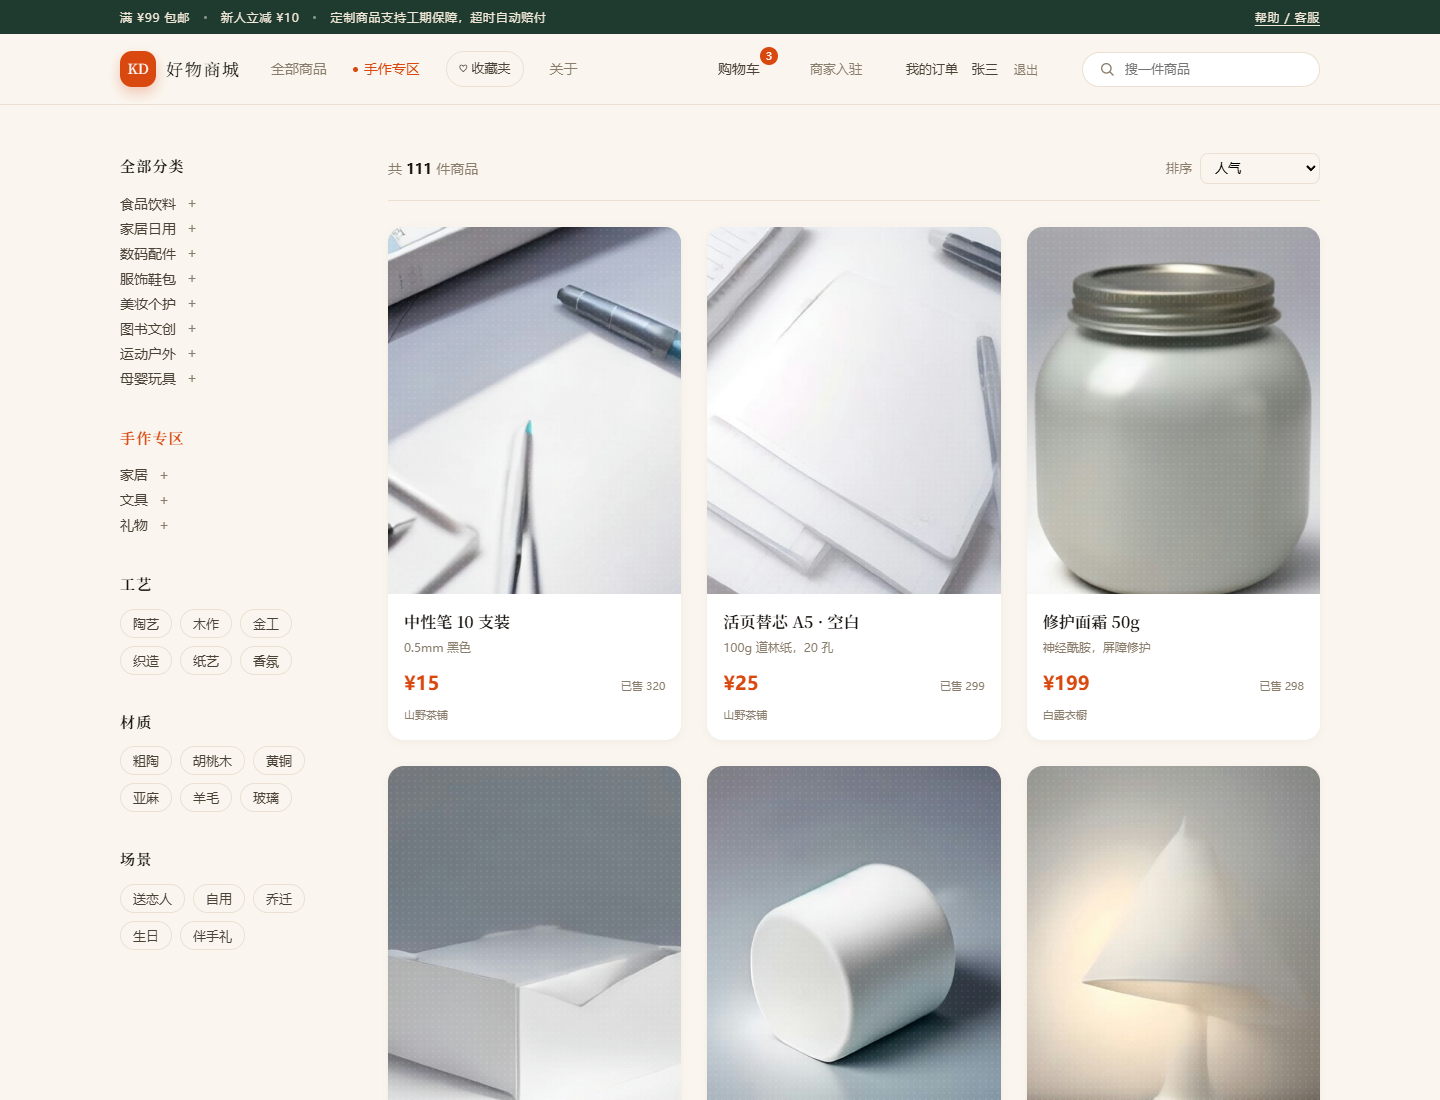
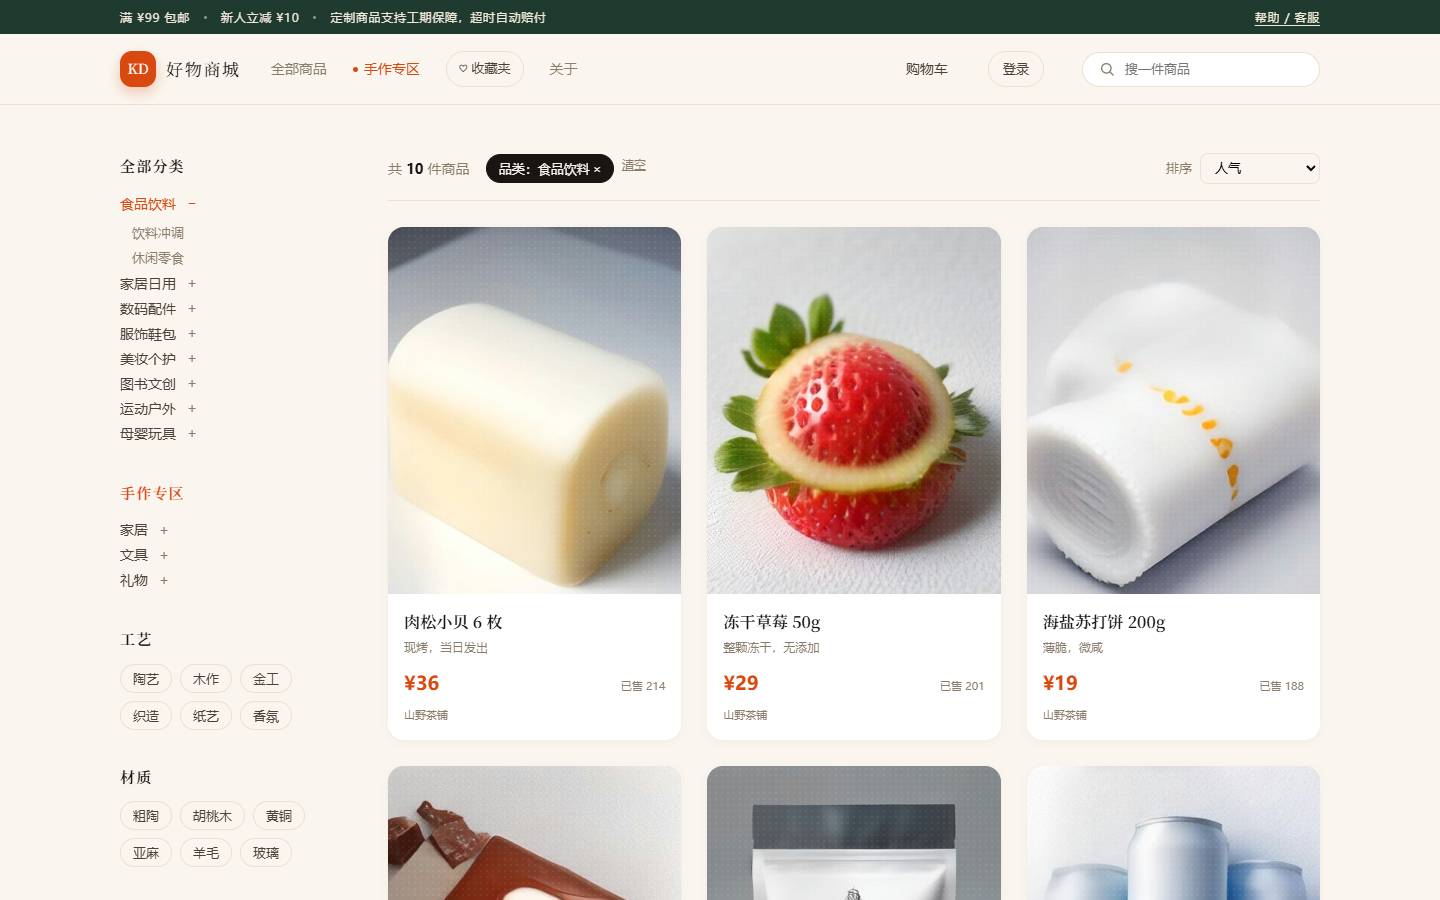
fix(ui): 选择类目时自动展开子级 (#85)
点击一级类目或带 categoryId 进入时，自动展开对应父级子类目。

diff --git a/frontend/src/views/shop/ProductListView.vue b/frontend/src/views/shop/ProductListView.vue
@@ -21,6 +21,17 @@ function toggleCategory(id: number) {
   else next.add(id)
   expanded.value = next
 }
+function expandFor(categoryId?: number) {
+  if (!categoryId) return
+  const next = new Set(expanded.value)
+  for (const top of categories.value) {
+    if (top.id === categoryId || top.children?.some((c) => c.id === categoryId)) {
+      next.add(top.id)
+    }
+  }
+  expanded.value = next
+}
+
 const generalCategories = computed(() => categories.value.filter((c) => !c.featured))
 const featuredCategories = computed(() => categories.value.filter((c) => c.featured))
 
@@ -69,7 +80,10 @@ watch(
   { immediate: true },
 )
 
-fetchCategories().then((value) => (categories.value = value))
+fetchCategories().then((value) => {
+  categories.value = value
+  expandFor(query.value.categoryId)
+})
 fetchTags().then((value) => (tags.value = value))
 
 function findCategory(id: number): string {
@@ -80,6 +94,8 @@ function findCategory(id: number): string {
   }
   return String(id)
 }
+
+watch(() => query.value.categoryId, (id) => expandFor(id))
 
 function apply(patch: Record<string, string | number | undefined>) {
   const next: Record<string, string> = {}
